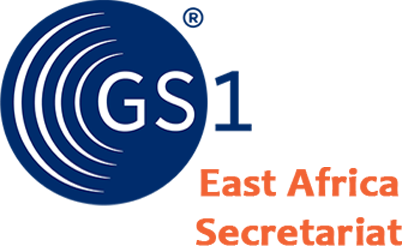
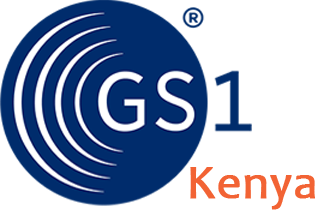
[fix] ui changes

diff --git a/templates/layout/crm_layout.html b/templates/layout/crm_layout.html
@@ -160,10 +160,7 @@
           <!-- Footer -->
           <div class="legal">
               <div class="copyright">
-                  &copy; 2018 <a href="javascript:void(0);">GS1 East Africa </a>.
-              </div>
-              <div class="version">
-                  <b>Version: </b> 1.0.5
+                  &copy; 2018 <a href="javascript:void(0);">GS1 Kenya </a>.
               </div>
           </div>
           <!-- #Footer -->

diff --git a/templates/layout/main_layout.html b/templates/layout/main_layout.html
@@ -162,10 +162,7 @@
           <!-- Footer -->
           <div class="legal">
               <div class="copyright">
-                  &copy; 2018 <a href="javascript:void(0);">GS1 East Africa </a>.
-              </div>
-              <div class="version">
-                  <b>Version: </b> 1.0.5
+                  &copy; 2018 <a href="javascript:void(0);">GS1 Kenya </a>.
               </div>
           </div>
           <!-- #Footer -->
